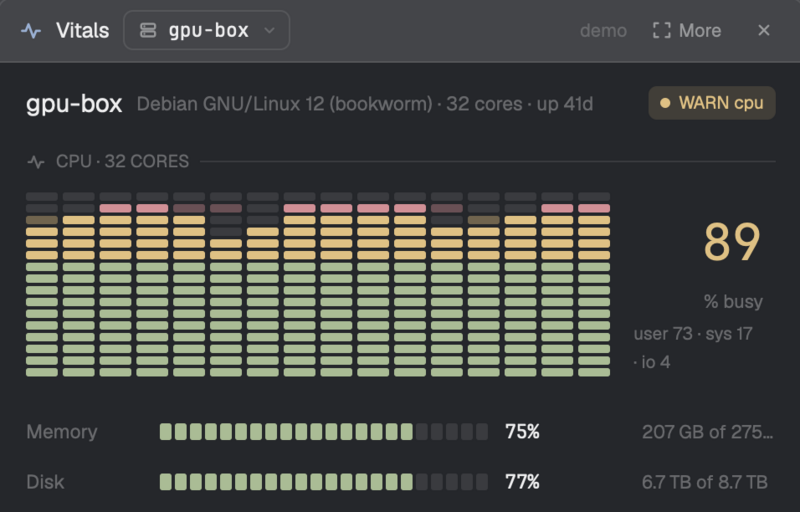
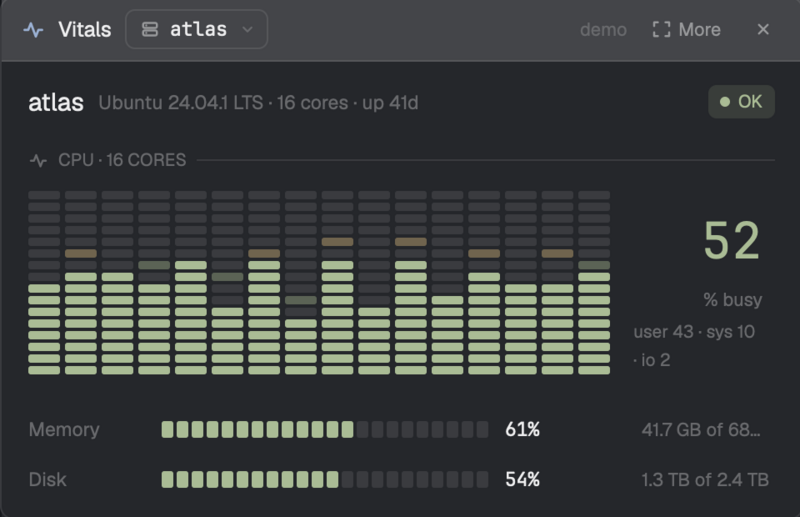
docs: compact on the calmer atlas
Claude-Session: https://claude.ai/code/session_01URUKFE9qJZHANmTN6REeXo

diff --git a/README.md b/README.md
@@ -160,7 +160,7 @@ this computer, or any machine the app is connected to.
 - **Less or More:** a click in the title bar switches to a compact window
   (the CPU, memory, and every disk added up together) and back; it's kept.
 
-![Compact: gpu-box's CPU equalizer, then just memory and every disk together](docs/images/app-compact.png)
+![Compact, on the demo's atlas: a calm 52% across its 16 cores, then just memory and every disk together](docs/images/app-compact.png)
 
 **How it works.** The mod is the plugin's own code: it runs
 `herdr-vitals app` (one JSON request in, one answer out) on the machine
